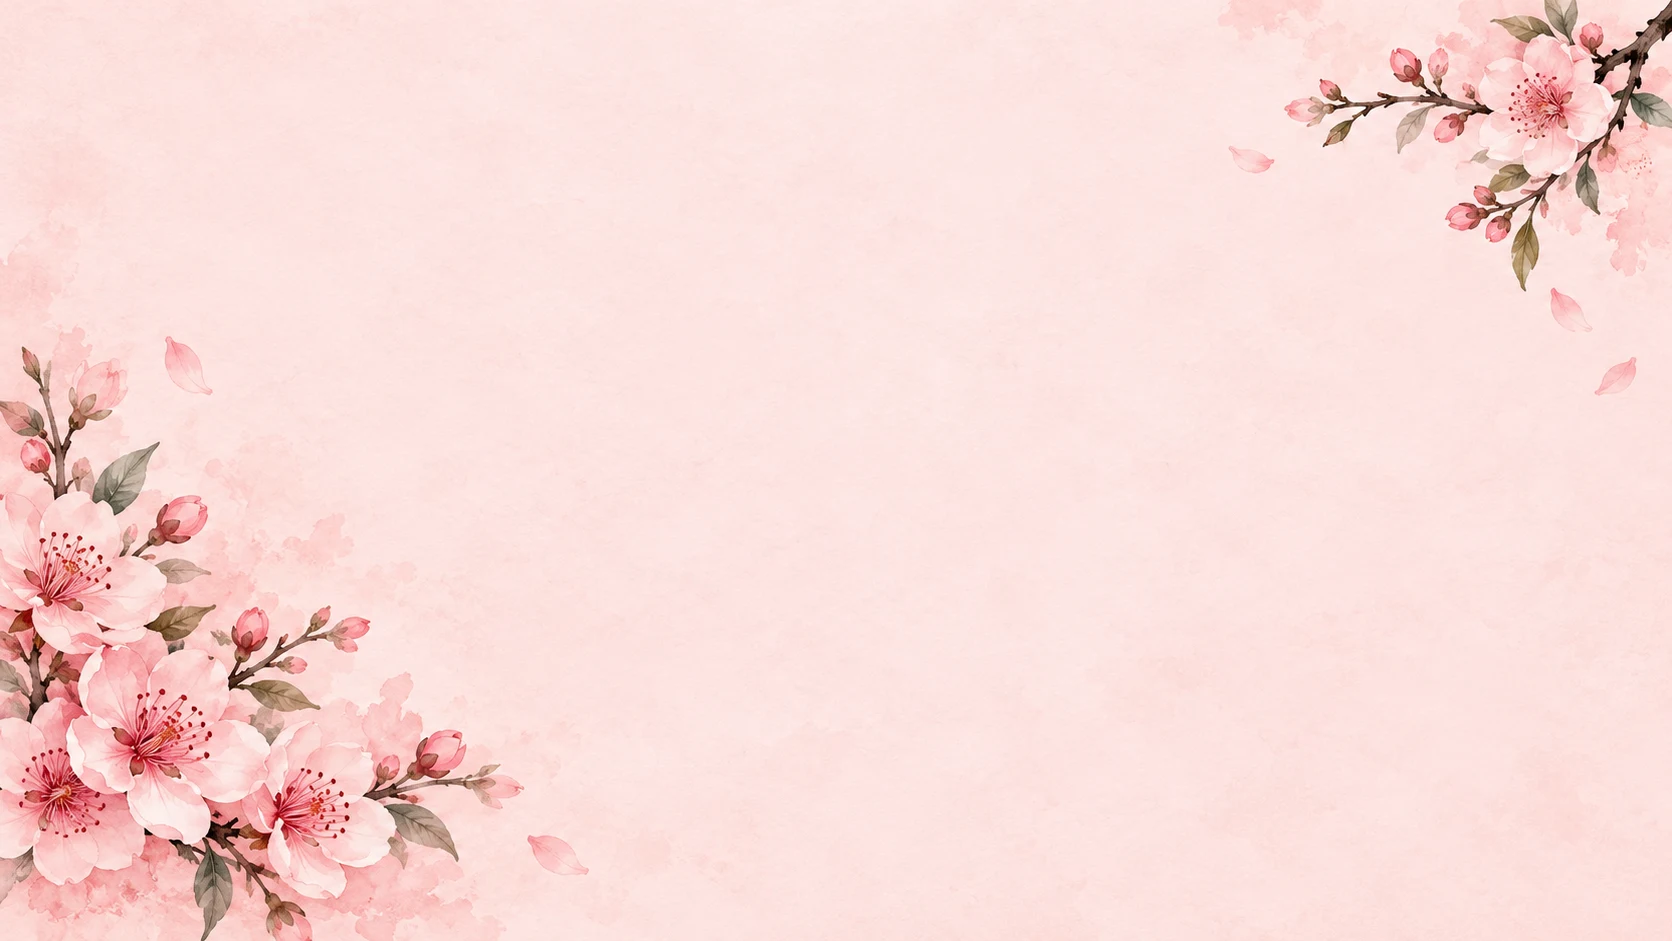
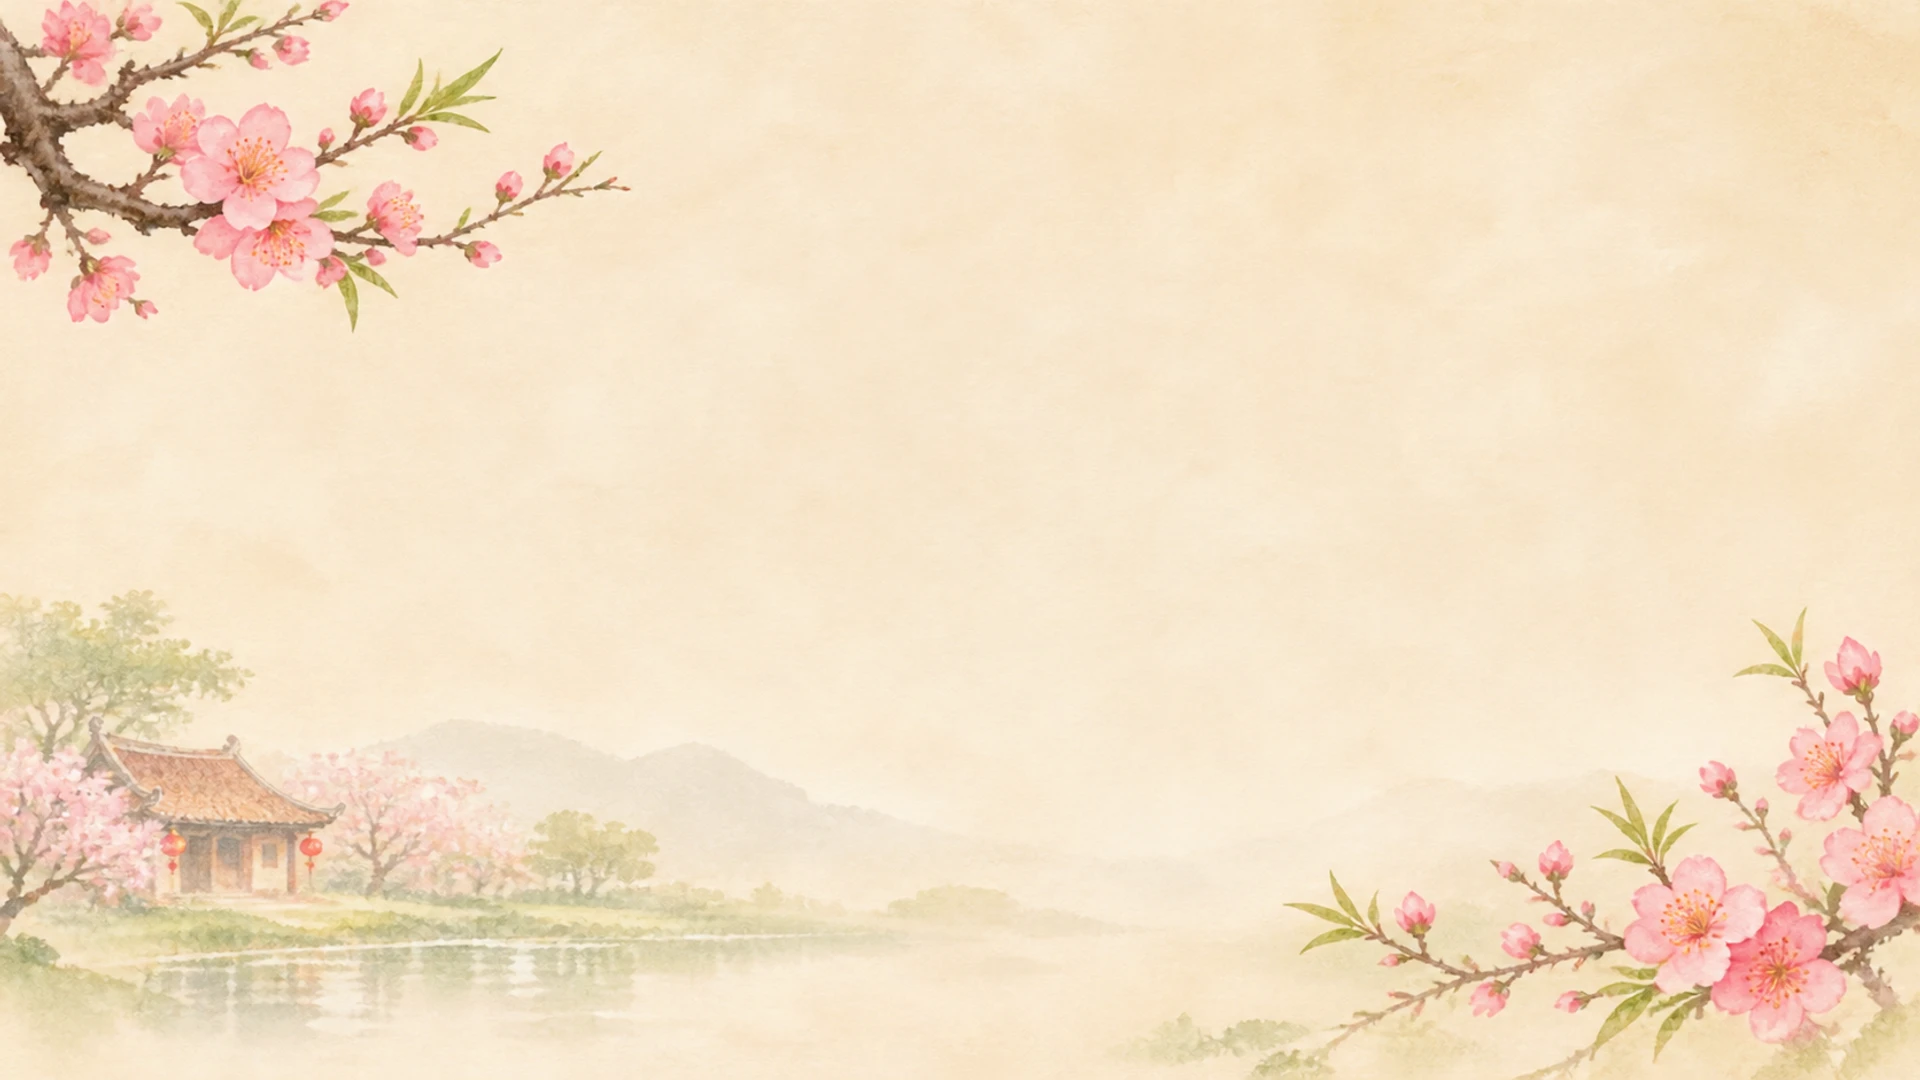
feat(hoa-dao-xuan): nền màu nước làng quê Tết + cánh đào rơi; tài liệu định hướng
- Nền ngang: ảnh ChatGPT "Nền Mùa Xuân Làng Quê Việt Nam" (nhà mái ngói, đèn lồng, giữa trống),
  lót màu giấy dưới alpha một phần, phóng 1672→1920
- Nền dọc vẽ liền riêng (941×1672 → 1080×1920)
- Cánh đào + bông đào rơi bằng ảnh, bỏ hạt cánh hoa vẽ bằng code
- Quầng giấy cùng tông sau khối chữ (khổ ngang)
- docs/DINH-HUONG-PHAT-TRIEN.md: định vị, sản phẩm, thiệp online, kiếm tiền, lộ trình

Kiểm: typecheck, check:assets 0 lỗi, /dev/layout 0 lỗi (81 render).

diff --git a/src/lib/render/templates/hoa-dao.ts b/src/lib/render/templates/hoa-dao.ts
@@ -1,12 +1,10 @@
-import { TAU, archPath, drawPhoto, makeLoopParticles, particleAt, particlesFor, radialGlow } from "../helpers";
+import { TAU, archPath, drawPhoto, radialGlow } from "../helpers";
 import type { RenderContext, VideoTemplate } from "../types";
 
 const ROSE = "#b0385a";
 const INK = "#6b2d3c";
 const SOFT = "#c46a82";
-const PETAL_COLORS = ["#f7b6c2", "#f39bb0", "#fbd0d8", "#ee8ea4"];
 
-const petals = makeLoopParticles(40, 11, { minSize: 14, maxSize: 30, drift: 180 });
 
 function petalPath(ctx: CanvasRenderingContext2D, s: number) {
   ctx.beginPath();
@@ -138,26 +136,19 @@ export const hoaDao: VideoTemplate = {
     ctx.restore();
   },
 
-  foreground(rc) {
-    const { ctx, W, H, t, D } = rc;
-    const u = t / D;
-    for (const p of particlesFor(rc, petals)) {
-      const q = particleAt(p, u, W, H, 60, 1);
-      ctx.save();
-      ctx.translate(q.x, q.y);
-      ctx.globalAlpha *= 0.88;
-      if (p.pick > 0.88) {
-        drawBlossom(ctx, 0, 0, p.size * 0.9, q.rot);
-      } else {
-        ctx.rotate(q.rot);
-        ctx.scale(0.35 + 0.65 * Math.abs(q.flip), 1);
-        ctx.fillStyle = PETAL_COLORS[Math.floor(p.pick * PETAL_COLORS.length) % PETAL_COLORS.length];
-        petalPath(ctx, p.size);
-        ctx.fill();
-      }
-      ctx.restore();
-    }
+  /** Nền ngang màu nước có cành đào vươn tới gần giữa khung → quầng giấy ngà mờ sau khối chữ (khổ dọc vẫn nền code) */
+  backdrop(rc) {
+    if (rc.portrait) return;
+    const { ctx, W, H } = rc;
+    ctx.save();
+    ctx.translate(W * 0.54, H * 0.42);
+    ctx.scale(1, 0.6);
+    // cùng tông giấy của nền (≈ 244,224,197) để không thành vệt nhạt; chỉ sáng hơn chút cho chữ nổi
+    radialGlow(ctx, 0, 0, W * 0.4, "rgba(248,233,210,0.55)");
+    ctx.restore();
   },
+
+  // Cánh đào/bông đào rơi là ảnh (template-assets `falling`), không vẽ hạt bằng code nữa.
 
   ornament(rc, cx, cy) {
     drawBlossom(rc.ctx, cx, cy, 44, 0.3);

diff --git a/src/config/template-assets.ts b/src/config/template-assets.ts
@@ -84,9 +84,18 @@ export interface TemplateAssets {
 }
 
 export const TEMPLATE_ASSETS: Record<string, TemplateAssets> = {
-  /** Thử nghiệm: ảnh nền màu nước hoa đào (chỉ có bản ngang). Bản dọc: còn dùng nền vẽ bằng code. */
+  /** Hoa Đào Xuân — màu nước Tết miền Bắc: nền vẽ liền riêng ngang/dọc, cánh đào + bông đào rơi. */
   "hoa-dao-xuan": {
-    background: { landscape: "/assets/hoa-dao-xuan/backgrounds/landscape.webp", zoom: 0.02 },
+    background: {
+      landscape: "/assets/hoa-dao-xuan/backgrounds/landscape.webp",
+      portrait: "/assets/hoa-dao-xuan/backgrounds/portrait.webp",
+      zoom: 0.015,
+    },
+    falling: [
+      { src: "/assets/hoa-dao-xuan/particles/canh-dao-01.webp", count: 6, size: [0.016, 0.03], drift: 60, loops: 1, seed: 11 },
+      { src: "/assets/hoa-dao-xuan/particles/canh-dao-02.webp", count: 6, size: [0.016, 0.03], drift: 50, loops: 1, seed: 29 },
+      { src: "/assets/hoa-dao-xuan/particles/bong-dao-01.webp", count: 1, size: [0.03, 0.04], drift: 36, loops: 1, seed: 87 },
+    ],
   },
 
   /** Bông sen màu nước đứng trong ao, đung đưa và "thở" nhẹ */

diff --git a/docs/DINH-HUONG-PHAT-TRIEN.md b/docs/DINH-HUONG-PHAT-TRIEN.md
@@ -1,0 +1,66 @@
+# Định hướng phát triển TaoSlideVideo
+
+Soạn 2026-11-20. Trạng thái: **đề xuất**, chờ chủ dự án duyệt từng giai đoạn.
+
+## 1. Định vị
+
+Không đua số lượng mẫu với cinelove và các trang tương tự. Thắng ở chỗ:
+
+> **Xong trong 5 phút trên điện thoại, chiếu ngay tại rạp, đúng phong tục Việt.**
+
+## 2. Một dự án, nhiều sản phẩm
+
+Nhập thông tin **một lần**, nhận về cả bộ đồng bộ cùng một mẫu. Engine Canvas hiện tại đã vẽ được, chỉ cần thêm khổ hình và cách xuất.
+
+| Sản phẩm | Dùng ở đâu | Hiện trạng |
+|---|---|---|
+| Video ngang 16:9 | Màn LED, TV ở rạp | Có |
+| Video dọc 9:16 | Facebook, TikTok, Zalo | Có |
+| Thiệp mời online (link + QR) | Gửi khách qua Zalo | Chưa |
+| Ảnh thiệp để in | In thiệp giấy | Chưa (có xuất PNG) |
+| Bảng chào cổng khổ lớn | Standee, backdrop | Chưa |
+
+## 3. Thiệp online: kênh lan truyền miễn phí
+
+Mỗi đám cưới gửi thiệp cho 200–500 người. Trang thiệp gồm:
+- Thông tin lễ, ảnh, bản đồ, xác nhận tham dự (RSVP).
+- Mã QR mừng cưới (VietQR).
+- Dòng nhỏ "Tạo thiệp tại …": khách mời sắp cưới sẽ biết đến sản phẩm.
+
+## 4. Đậm chất Việt
+
+- Lời mời và lời cảm ơn theo vùng miền; tự đổi xưng hô nhà trai/nhà gái; tên bố mẹ hai họ như thiệp truyền thống.
+- Lịch âm (đã có), giờ hoàng đạo.
+- Bộ mẫu theo vùng miền và mùa: Bắc (đào, sen, Quan Họ), Trung (Huế), Nam (mai vàng, áo bà ba).
+
+## 5. Chiếu tại rạp
+
+- Link `/v/<mã>` kèm QR: Smart TV mở là chiếu, không cần USB.
+- Chế độ lịch trình: trước giờ lễ chiếu lời chào khách → đến giờ lễ chuyển sang tên và ngày → sau đó chiếu ảnh kỷ niệm.
+
+## 6. Kiếm tiền
+
+- **Miễn phí có watermark.** Trả theo đám (khoảng 49–99 nghìn) để xuất bản sạch, hoặc mua trọn bộ video + thiệp + backdrop.
+- **Khách doanh nghiệp:** gói tháng cho nhà hàng tiệc cưới, studio, thợ trang trí tráp. Video mang logo của họ, làm hàng chục đám mỗi tháng. Đây là nguồn thu ổn định nhất.
+- Khung kiếm tiền đã có trong code (đang tắt): watermark, paywall, checkout mock.
+
+## 7. Lộ trình
+
+| Giai đoạn | Việc | Cần |
+|---|---|---|
+| **1 (đang làm)** | Xong 3 mẫu Đợt 1; editor ổn trên điện thoại; rà soát danh mục mẫu (gộp còn khoảng 8–10 mẫu) trước Đợt 2 | — |
+| **2** | Tài khoản + lưu dự án online; **thiệp online + link chiếu TV** | Backend, DB (Neon), lưu trữ ảnh/nhạc |
+| **3** | Thanh toán theo đám (PayOS/VietQR); render bản sạch phía server để chống lách watermark | Cổng thanh toán, headless Chrome |
+| **4** | Gói doanh nghiệp; bộ mẫu vùng miền; AI viết lời chào | Có khách hàng thật |
+
+**Ưu tiên khuyến nghị:** làm **thiệp online** ngay sau giai đoạn 1. Nó vừa là sản phẩm khách cần nhất, vừa tự đem người dùng về, và cũng là nền móng cho link chiếu TV.
+
+## 8. Việc nhỏ còn tồn (giai đoạn 1)
+
+- Chụp kiểm tra và sửa editor ở màn hình điện thoại (chưa từng kiểm).
+- Thử xuất MP4 ở chế độ 1 cảnh.
+- Dọn code vẽ Đông Hồ thừa trong `quan-ho.ts` (đã bị ảnh nền che hết).
+- Giới hạn độ dài tên và địa chỉ, có cảnh báo trong editor.
+- Lưu và mở lại dự án bằng file (hiện dữ liệu chỉ nằm trong trình duyệt).
+- Ảnh thu nhỏ trong thư viện mẫu theo đúng tỉ lệ đang chọn.
+- WebM (nhánh dự phòng) chưa ghi thời lượng trong header.

diff --git a/CLAUDE.md b/CLAUDE.md
@@ -109,6 +109,10 @@ node scripts/probe-export.mjs "<chrome.exe>" <profileDir> "http://localhost:3123
 Dùng thư mục profile Chrome trong scratchpad; xem ảnh chụp bằng tool Read.
 
 ## Trạng thái phiên gần nhất (cập nhật mỗi khi chuyển chat)
+- 2026-11-23 (Hoa Đào Xuân màu nước, nhánh `design/hoa-dao-xuan`, PR): nền ngang = ảnh ChatGPT "Nền Mùa Xuân Làng Quê Việt Nam-5" (chủ dự án chọn,
+  có alpha một phần → flatten màu giấy 244,224,197), nền dọc = bản 2, rơi = canh-dao-01/02 + bong-dao-01 (bỏ hạt code). backdrop quầng tông giấy (chỉ ngang).
+  Ảnh dự phòng (bản 1,3,4,6, v1) ở `_inbox/hoa-dao-xuan/`. Còn vẽ code: ornament 3 bông + hoa góc khung vòm. Định hướng dài hạn: `docs/DINH-HUONG-PHAT-TRIEN.md`.
+  BẪY: KHÔNG `git checkout -- <asset>` khi asset mới chưa commit (đã mất 1 lần, phục hồi từ cache Chrome headless `prof/Default/Cache`).
 - 2026-11-20 (Số cảnh 1/2/3, nhánh `feat/scene-count`, PR): `scenes.intro` mới; `textSceneCount`/`scenesForCount` trong timeline.ts;
   1 cảnh = chỉ Tên & ngày, dài `SINGLE_SCENE`=8s, runScenes giữ chữ đứng yên (v=1, lt=SETTLED) để lặp không nháy. UI: nút "1/2/3 cảnh" ở thẻ Nội dung.
   /dev/frames thêm `&scenes=1|2|3`. Chưa thử xuất MP4 chế độ 1 cảnh. ChatGPT đang làm Hoa Đào (nền vẽ liền, bản sắc Tết, khác Hồng Phượng).
